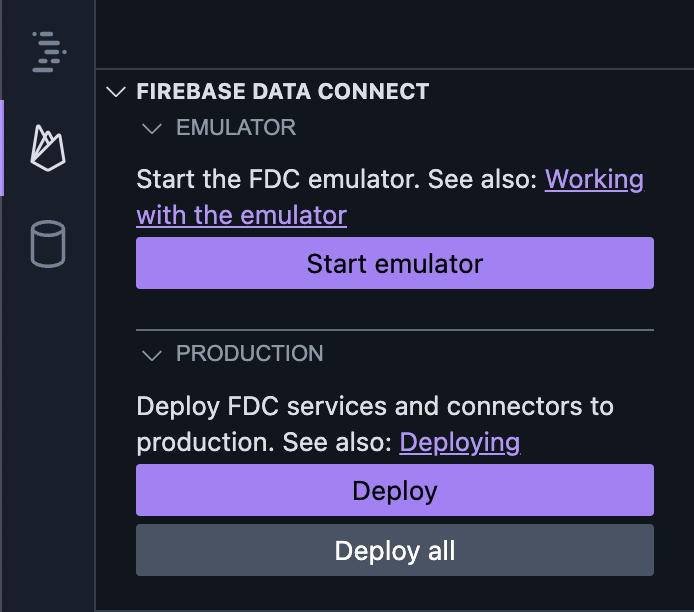
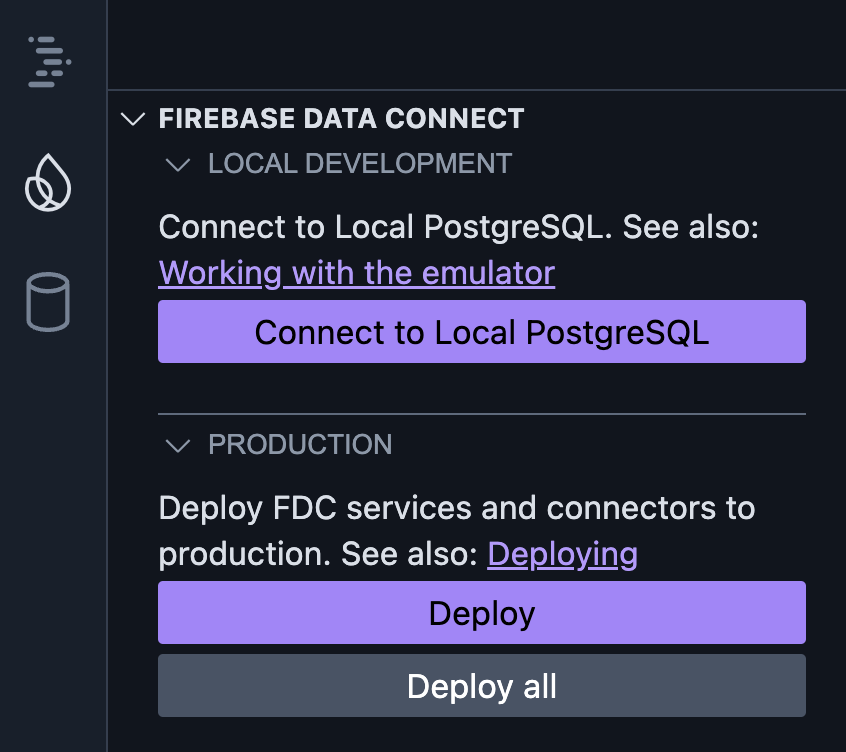
update examples

diff --git a/dev/email-app/src/app/fake-emails.tsx b/dev/email-app/src/app/fake-emails.tsx
@@ -28,7 +28,7 @@ const fakeEmails: ListInboxResponse['emails'] = [{
 
       <ol class="list-decimal ml-8 mb-4 leading-8">
         <li>Click the Firebase Extension to the left (see attachment below).</li>
-        <li>Click the Start Emulator button.</li>
+        <li>Click the Connect to Local PostgreSQL button. Continue with the provided Postgres connection string</li>
         <li>Open the <code>/dataconnect</code> folder and run the insert scripts in the following order: <code>User_insert.gql</code>, <code>Email_insert.gql</code>, <code>EmailMeta_insert.gql</code>, and <code>Recipient_insert.gql.</code></li>
         <li>Refresh the IDX preview panel to pick up the changes.</li>
       </ol>
@@ -41,6 +41,7 @@ const fakeEmails: ListInboxResponse['emails'] = [{
       <p class="mb-4 flex flex-col gap-y-4">
         <iframe class="rounded-md" width="560" height="315" src="https://www.youtube.com/embed/7OdVatEI85o?si=7hgOoc2OChGyAHH8" title="YouTube video player" frameborder="0" allow="accelerometer; autoplay; clipboard-write; encrypted-media; gyroscope; picture-in-picture; web-share" referrerpolicy="strict-origin-when-cross-origin" allowfullscreen></iframe>
         <img src="/extension.png" alt="The Firebase Extension" class="rounded-lg" />
+        <img src="/psql.png" alt="The connection string input" class="rounded-lg" />
         <img src="/insert-scripts.png" alt="A screenshot of a GQL insert script" class="rounded-lg" />
       </p>
   `,
